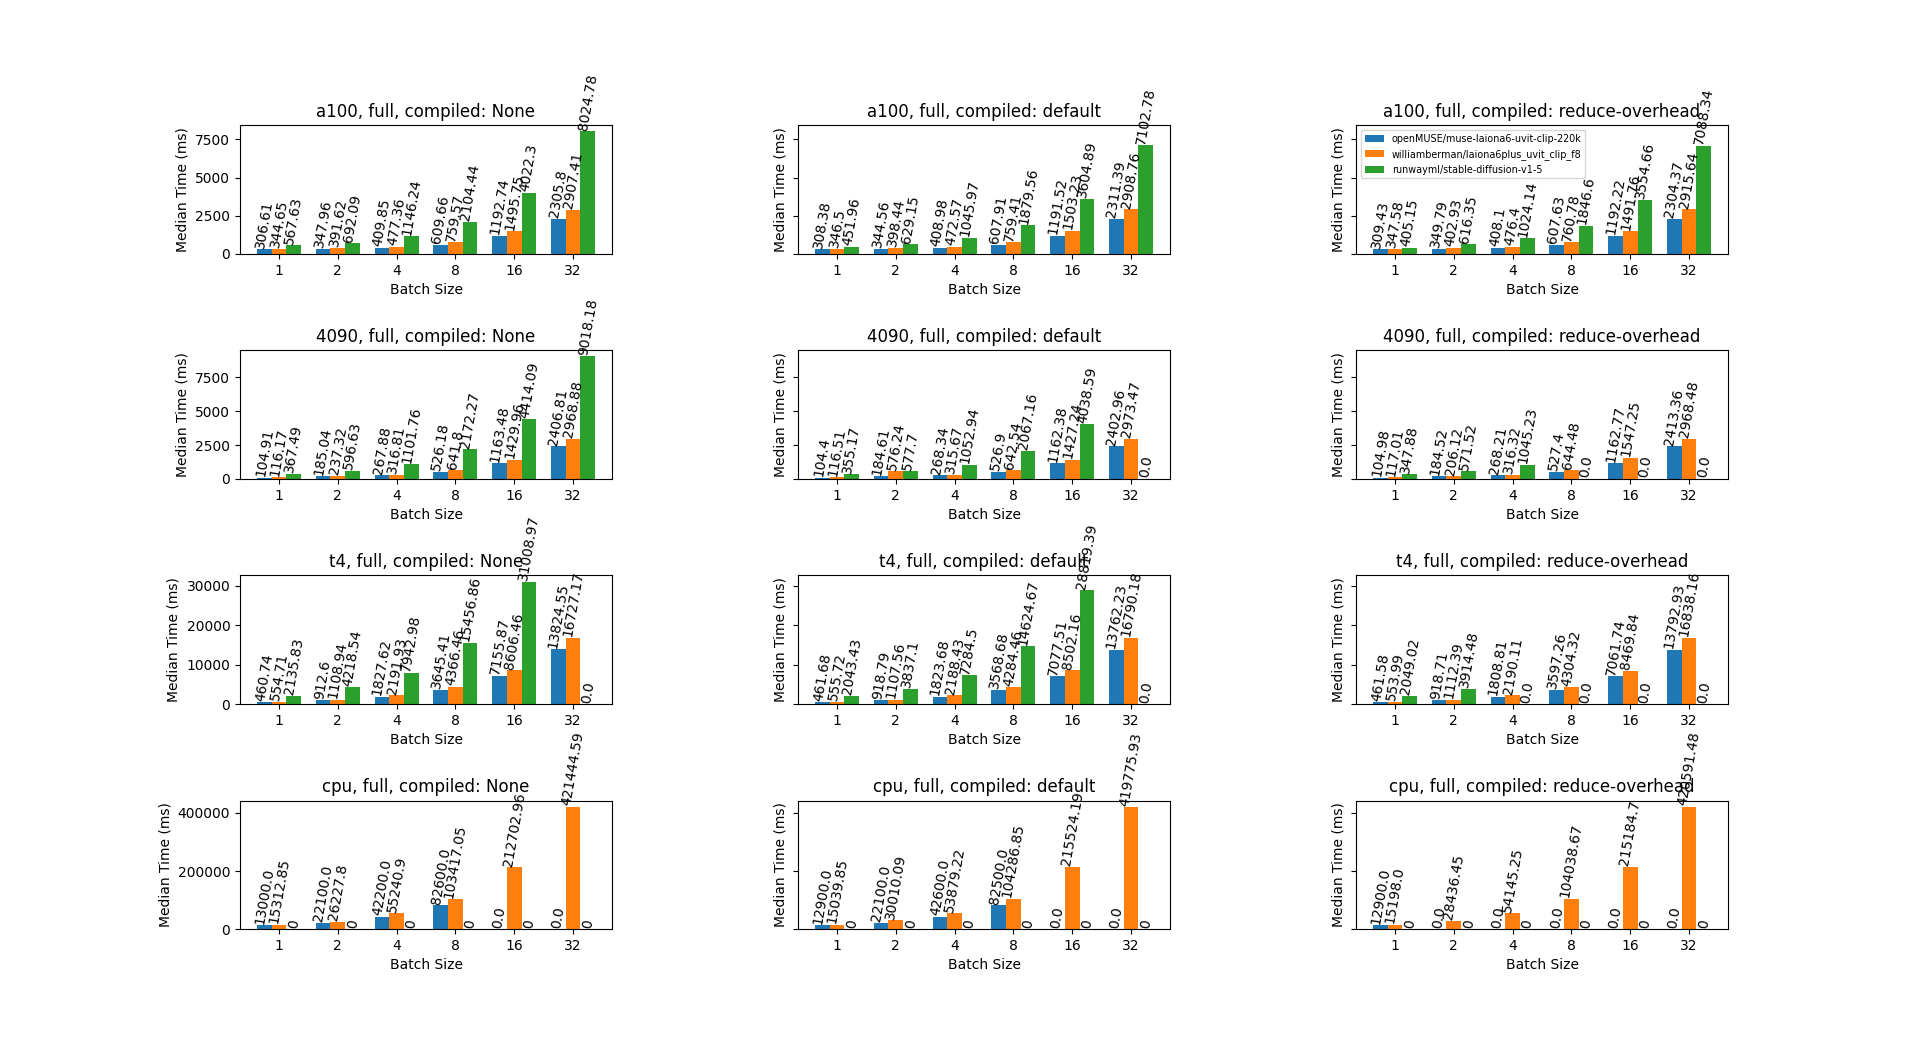
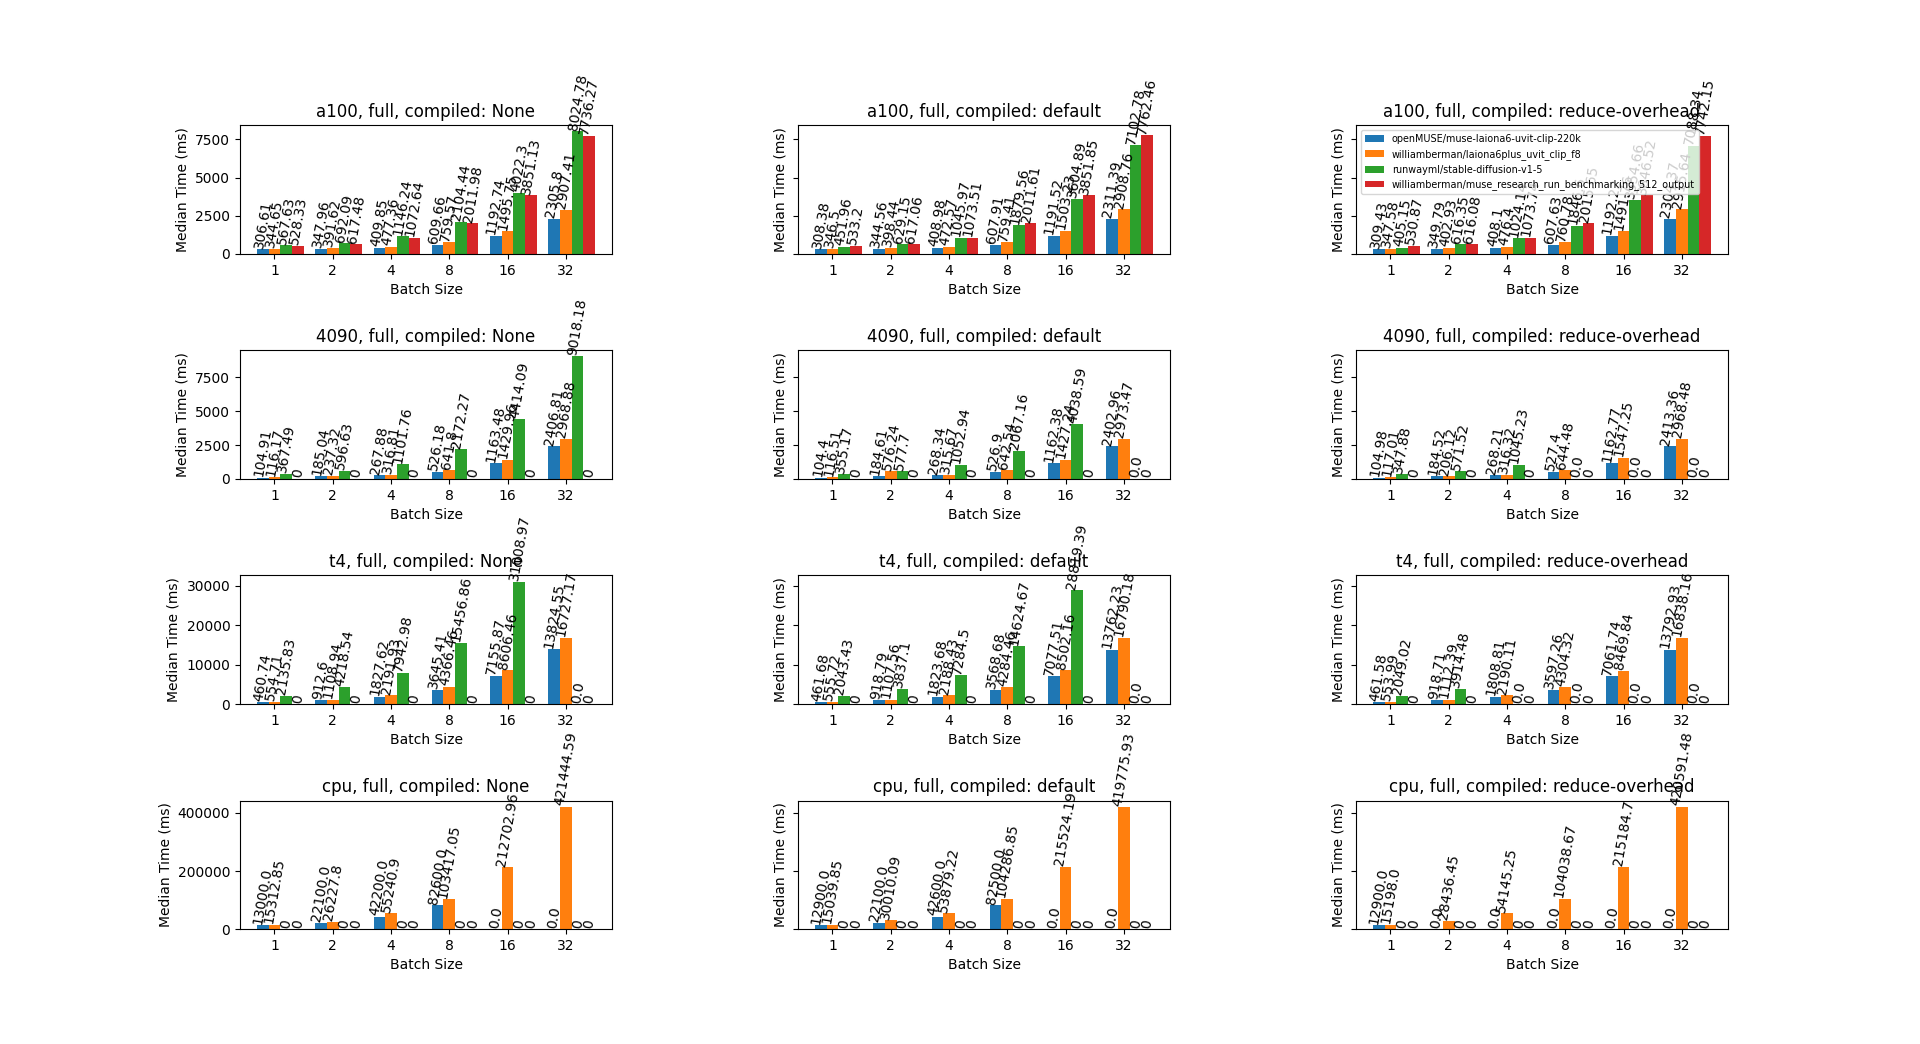
more

diff --git a/benchmark/muse_chart.py b/benchmark/muse_chart.py
@@ -3,7 +3,7 @@ from argparse import ArgumentParser
 import matplotlib.pyplot as plt
 import pandas as pd
 
-df = pd.read_csv("artifacts/all.csv")
+df = pd.read_csv("benchmark/artifacts/all.csv")
 
 # round to GB
 df["Max Memory"] = df["Max Memory"].apply(lambda x: round(x / 10**9, 2))
@@ -11,12 +11,13 @@ df["Max Memory"] = df["Max Memory"].apply(lambda x: round(x / 10**9, 2))
 df["Median"] = df["Median"].apply(lambda x: round(x, 2))
 df["Mean"] = df["Mean"].apply(lambda x: round(x, 2))
 
-bar_width = 0.25
+bar_width = 0.20
 
 model_names = [
     "openMUSE/muse-laiona6-uvit-clip-220k",
     "williamberman/laiona6plus_uvit_clip_f8",
     "runwayml/stable-diffusion-v1-5",
+    "williamberman/muse_research_run_benchmarking_512_output",
 ]
 
 
